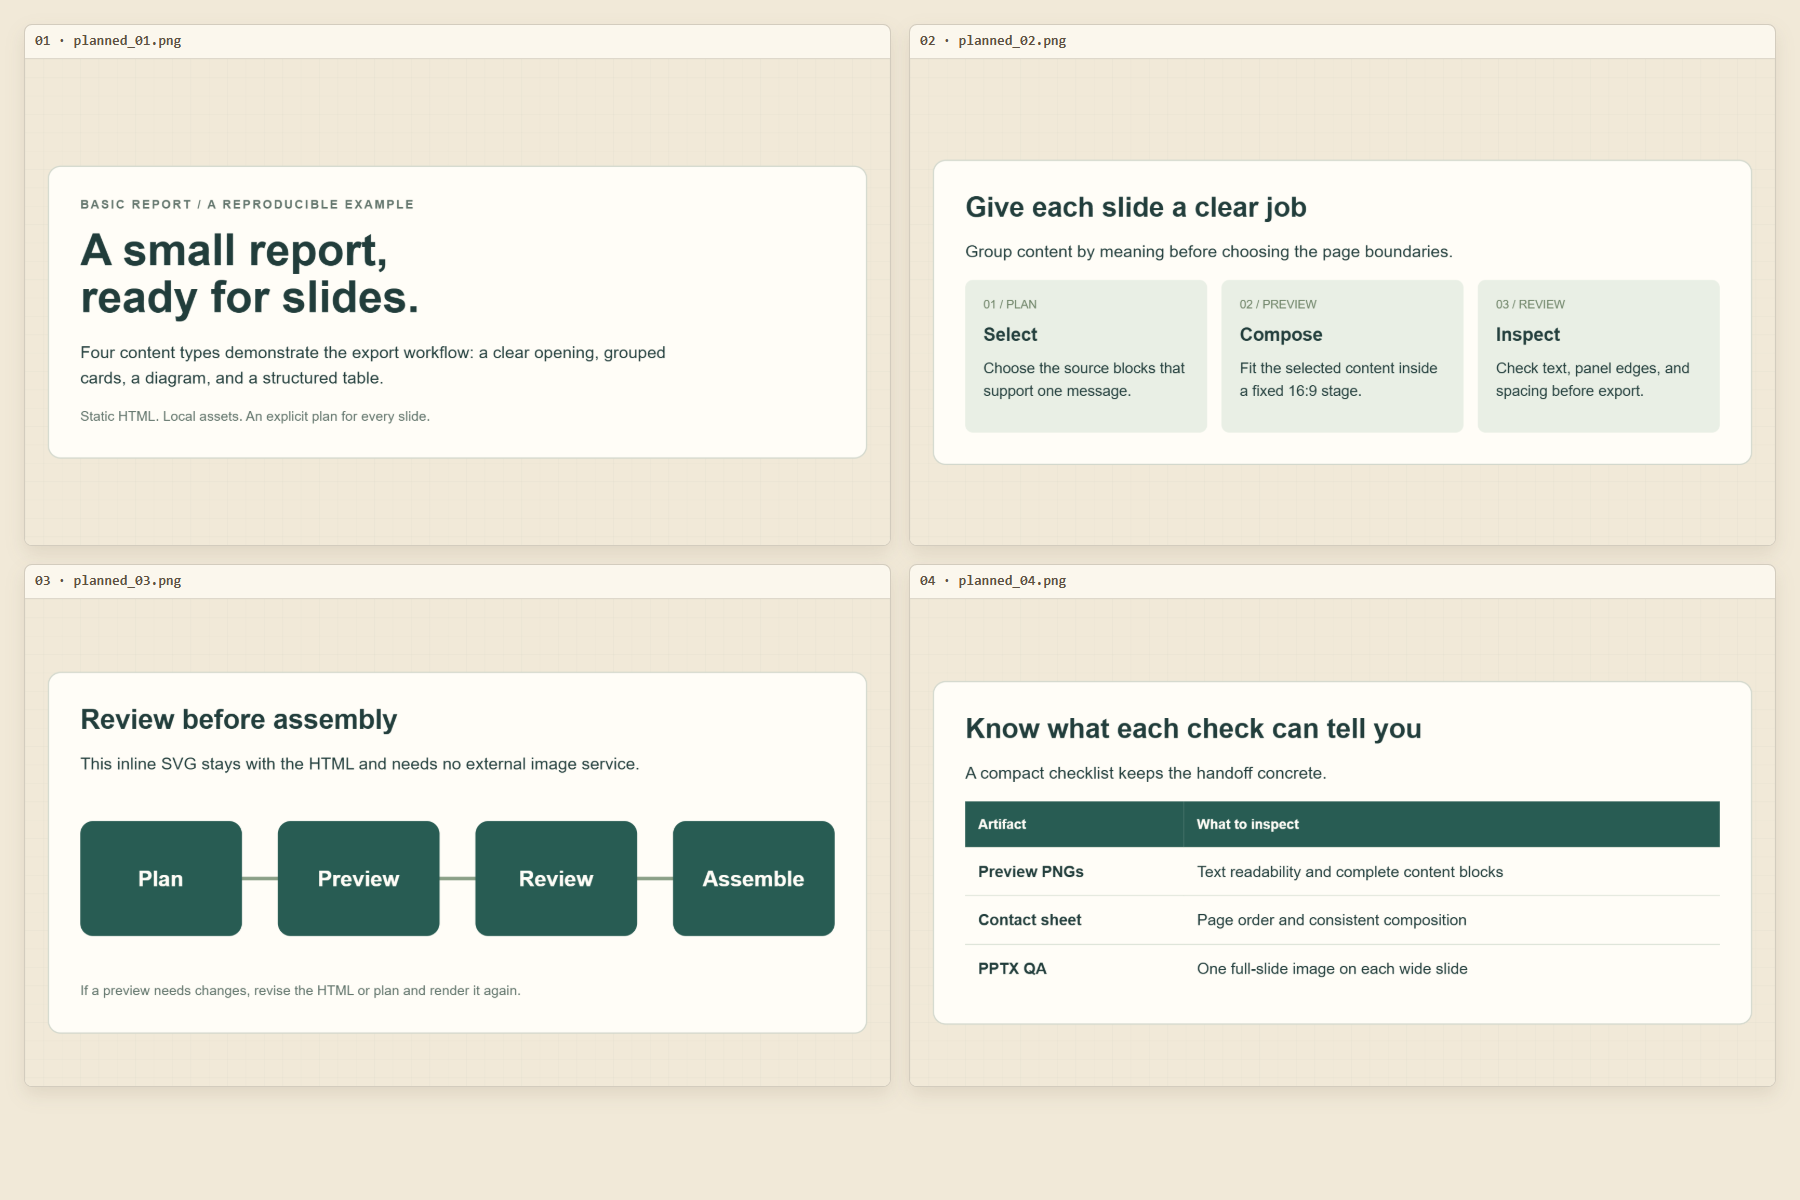
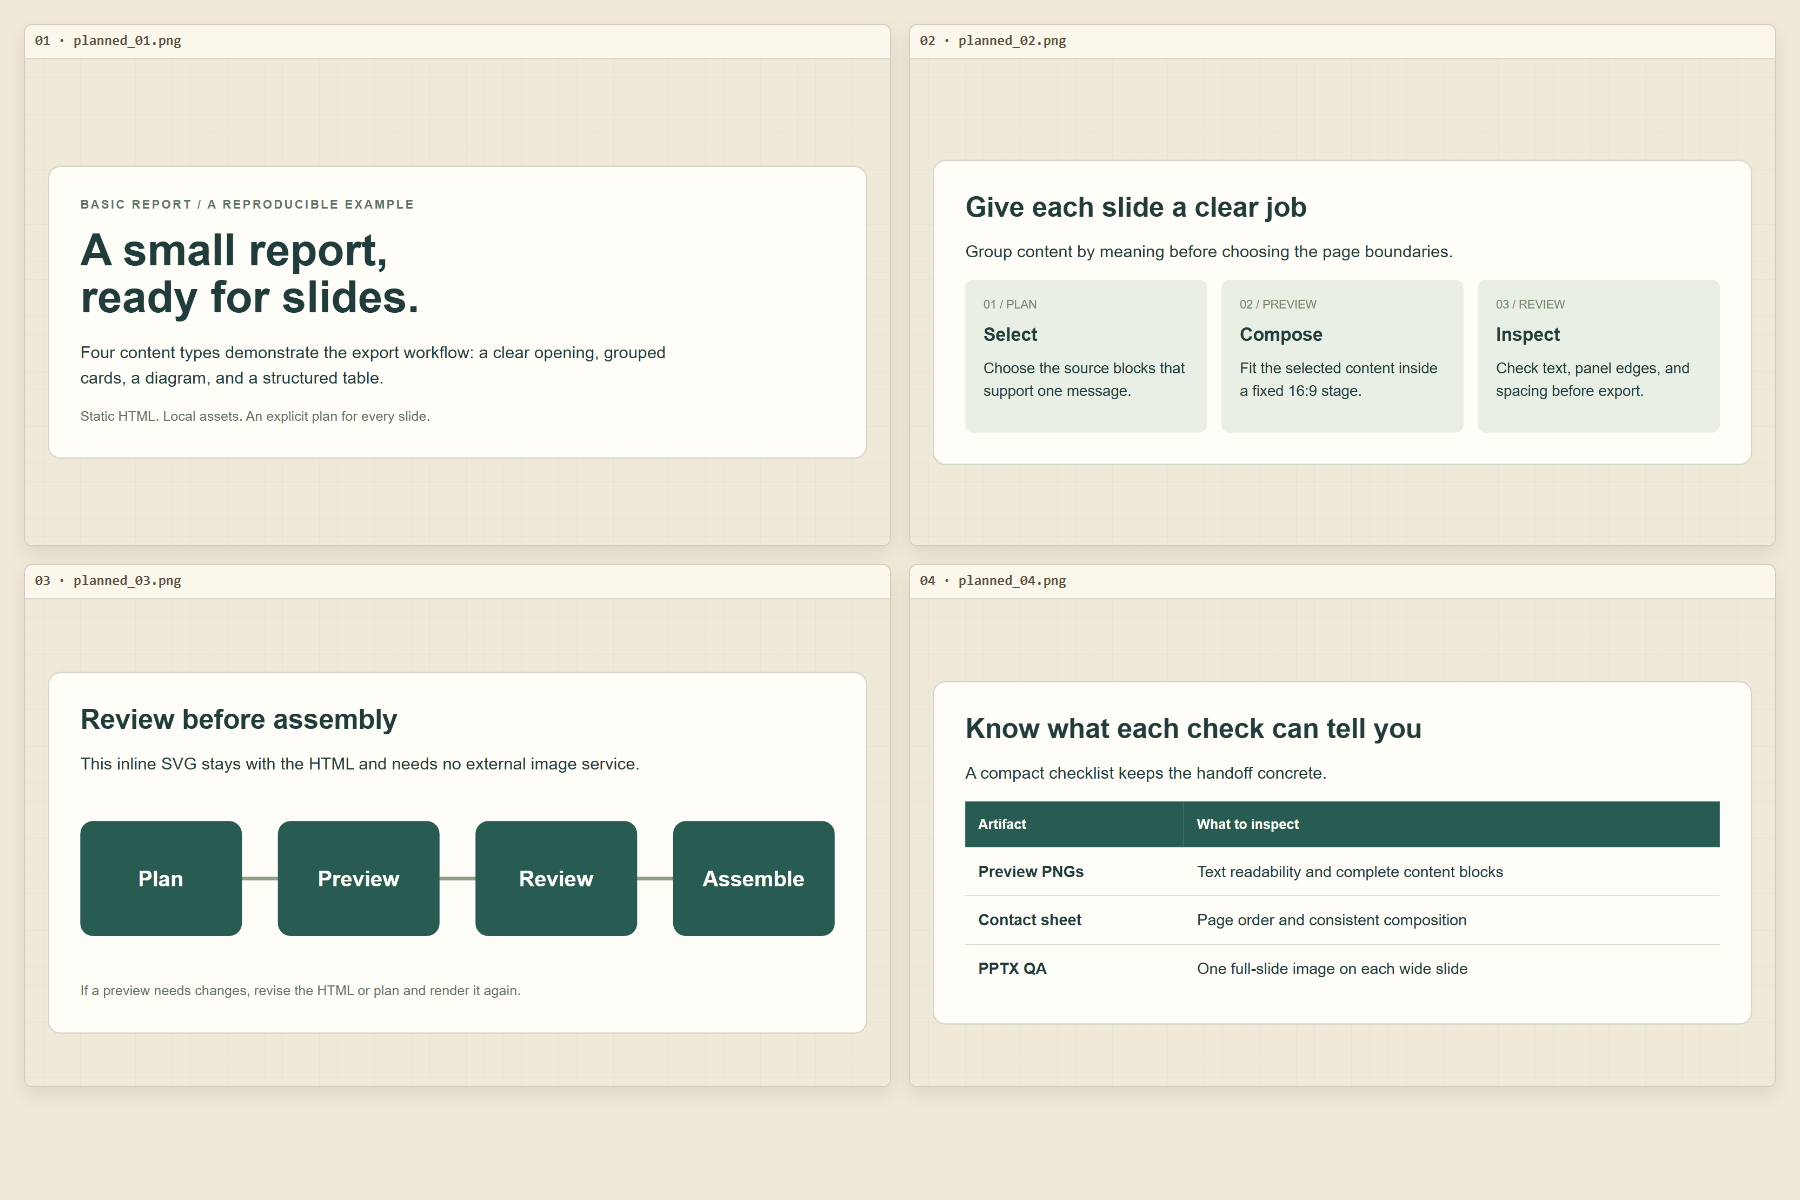
test: support Unicode skill copies and refresh Chromium demo

diff --git a/tests/integration/browser.test.js b/tests/integration/browser.test.js
@@ -129,7 +129,15 @@ test("four-page offline example produces previews, contact sheet, matching PPTX 
     await t.test("installed skill copy resolves dependencies from the active repository", () => {
       const external = temp(t);
       const copied = path.join(external, "skill-scripts");
-      fs.cpSync(scripts, copied, { recursive: true });
+      // Copy regular script files explicitly: older supported Node patches have
+      // a Windows Unicode-path bug in recursive cpSync.
+      for (const entry of fs.readdirSync(scripts, { recursive: true })) {
+        const source = path.join(scripts, entry);
+        if (!fs.statSync(source).isFile()) continue;
+        const target = path.join(copied, entry);
+        fs.mkdirSync(path.dirname(target), { recursive: true });
+        fs.copyFileSync(source, target);
+      }
       const { spawnSync } = require("node:child_process");
       const exported = spawnSync(process.execPath, [path.join(copied, "ppt_from_preview.js"),
         preview, path.join(dir, "external-skill.pptx")], { cwd: root, encoding: "utf8", timeout: 60000 });
